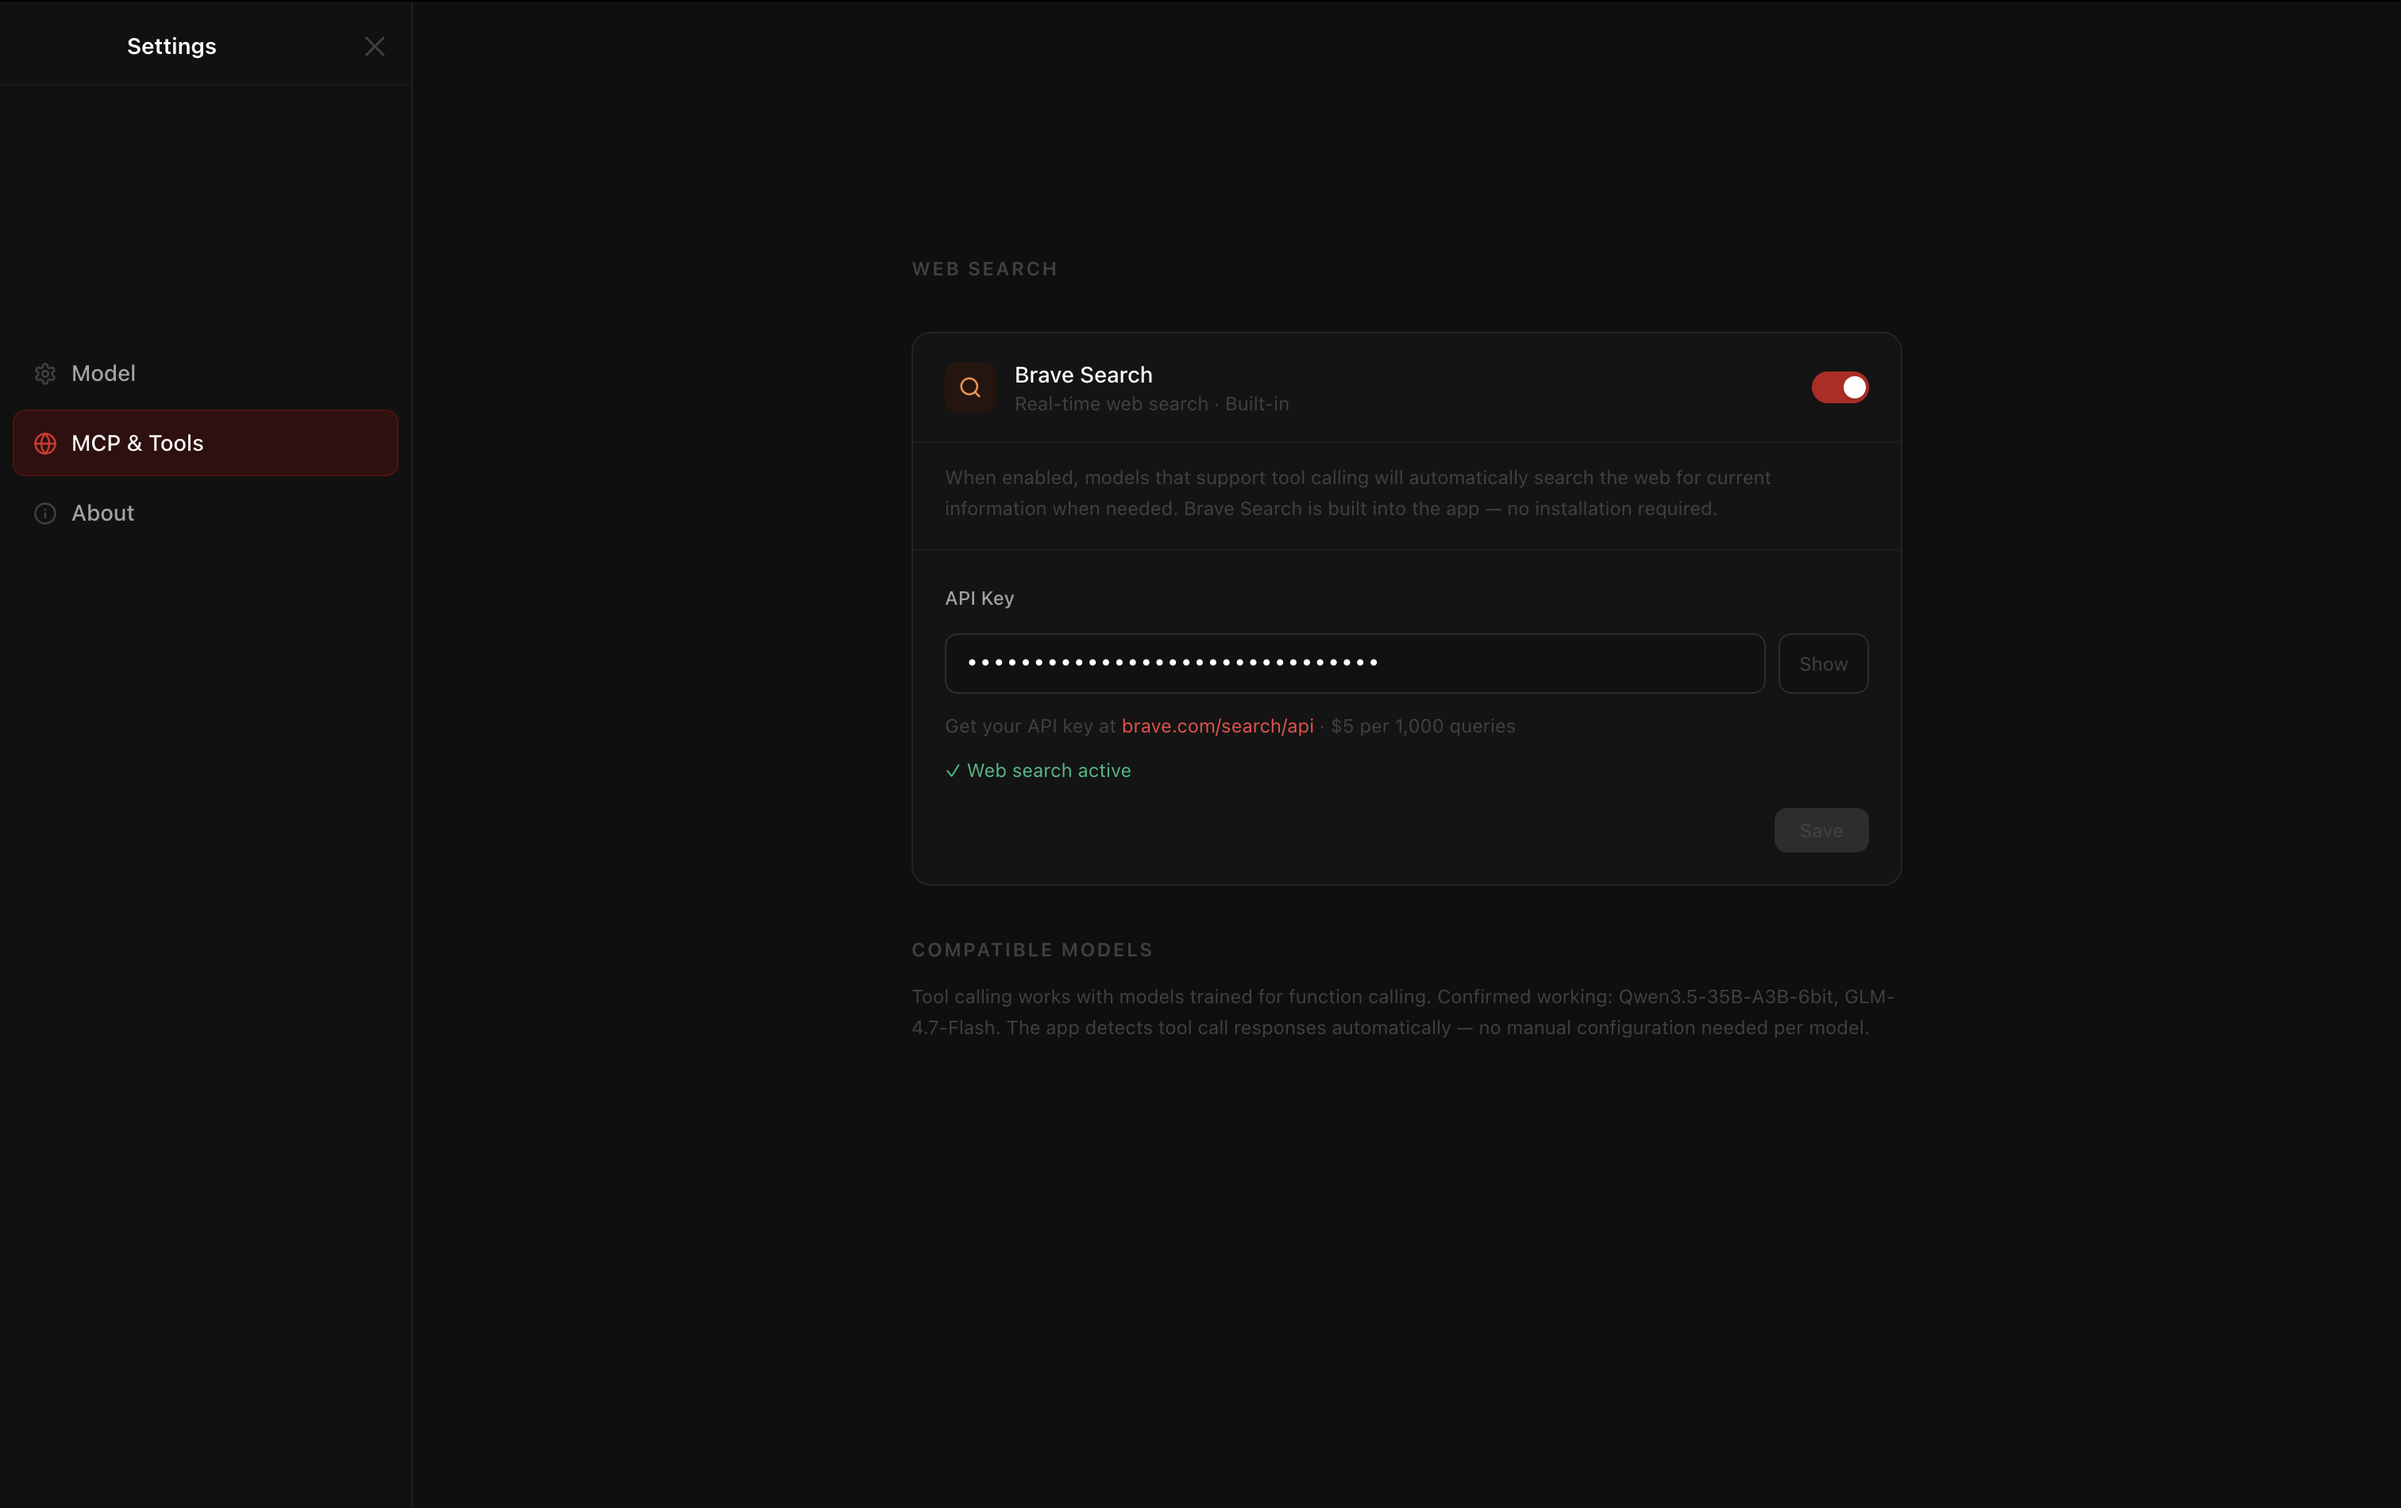
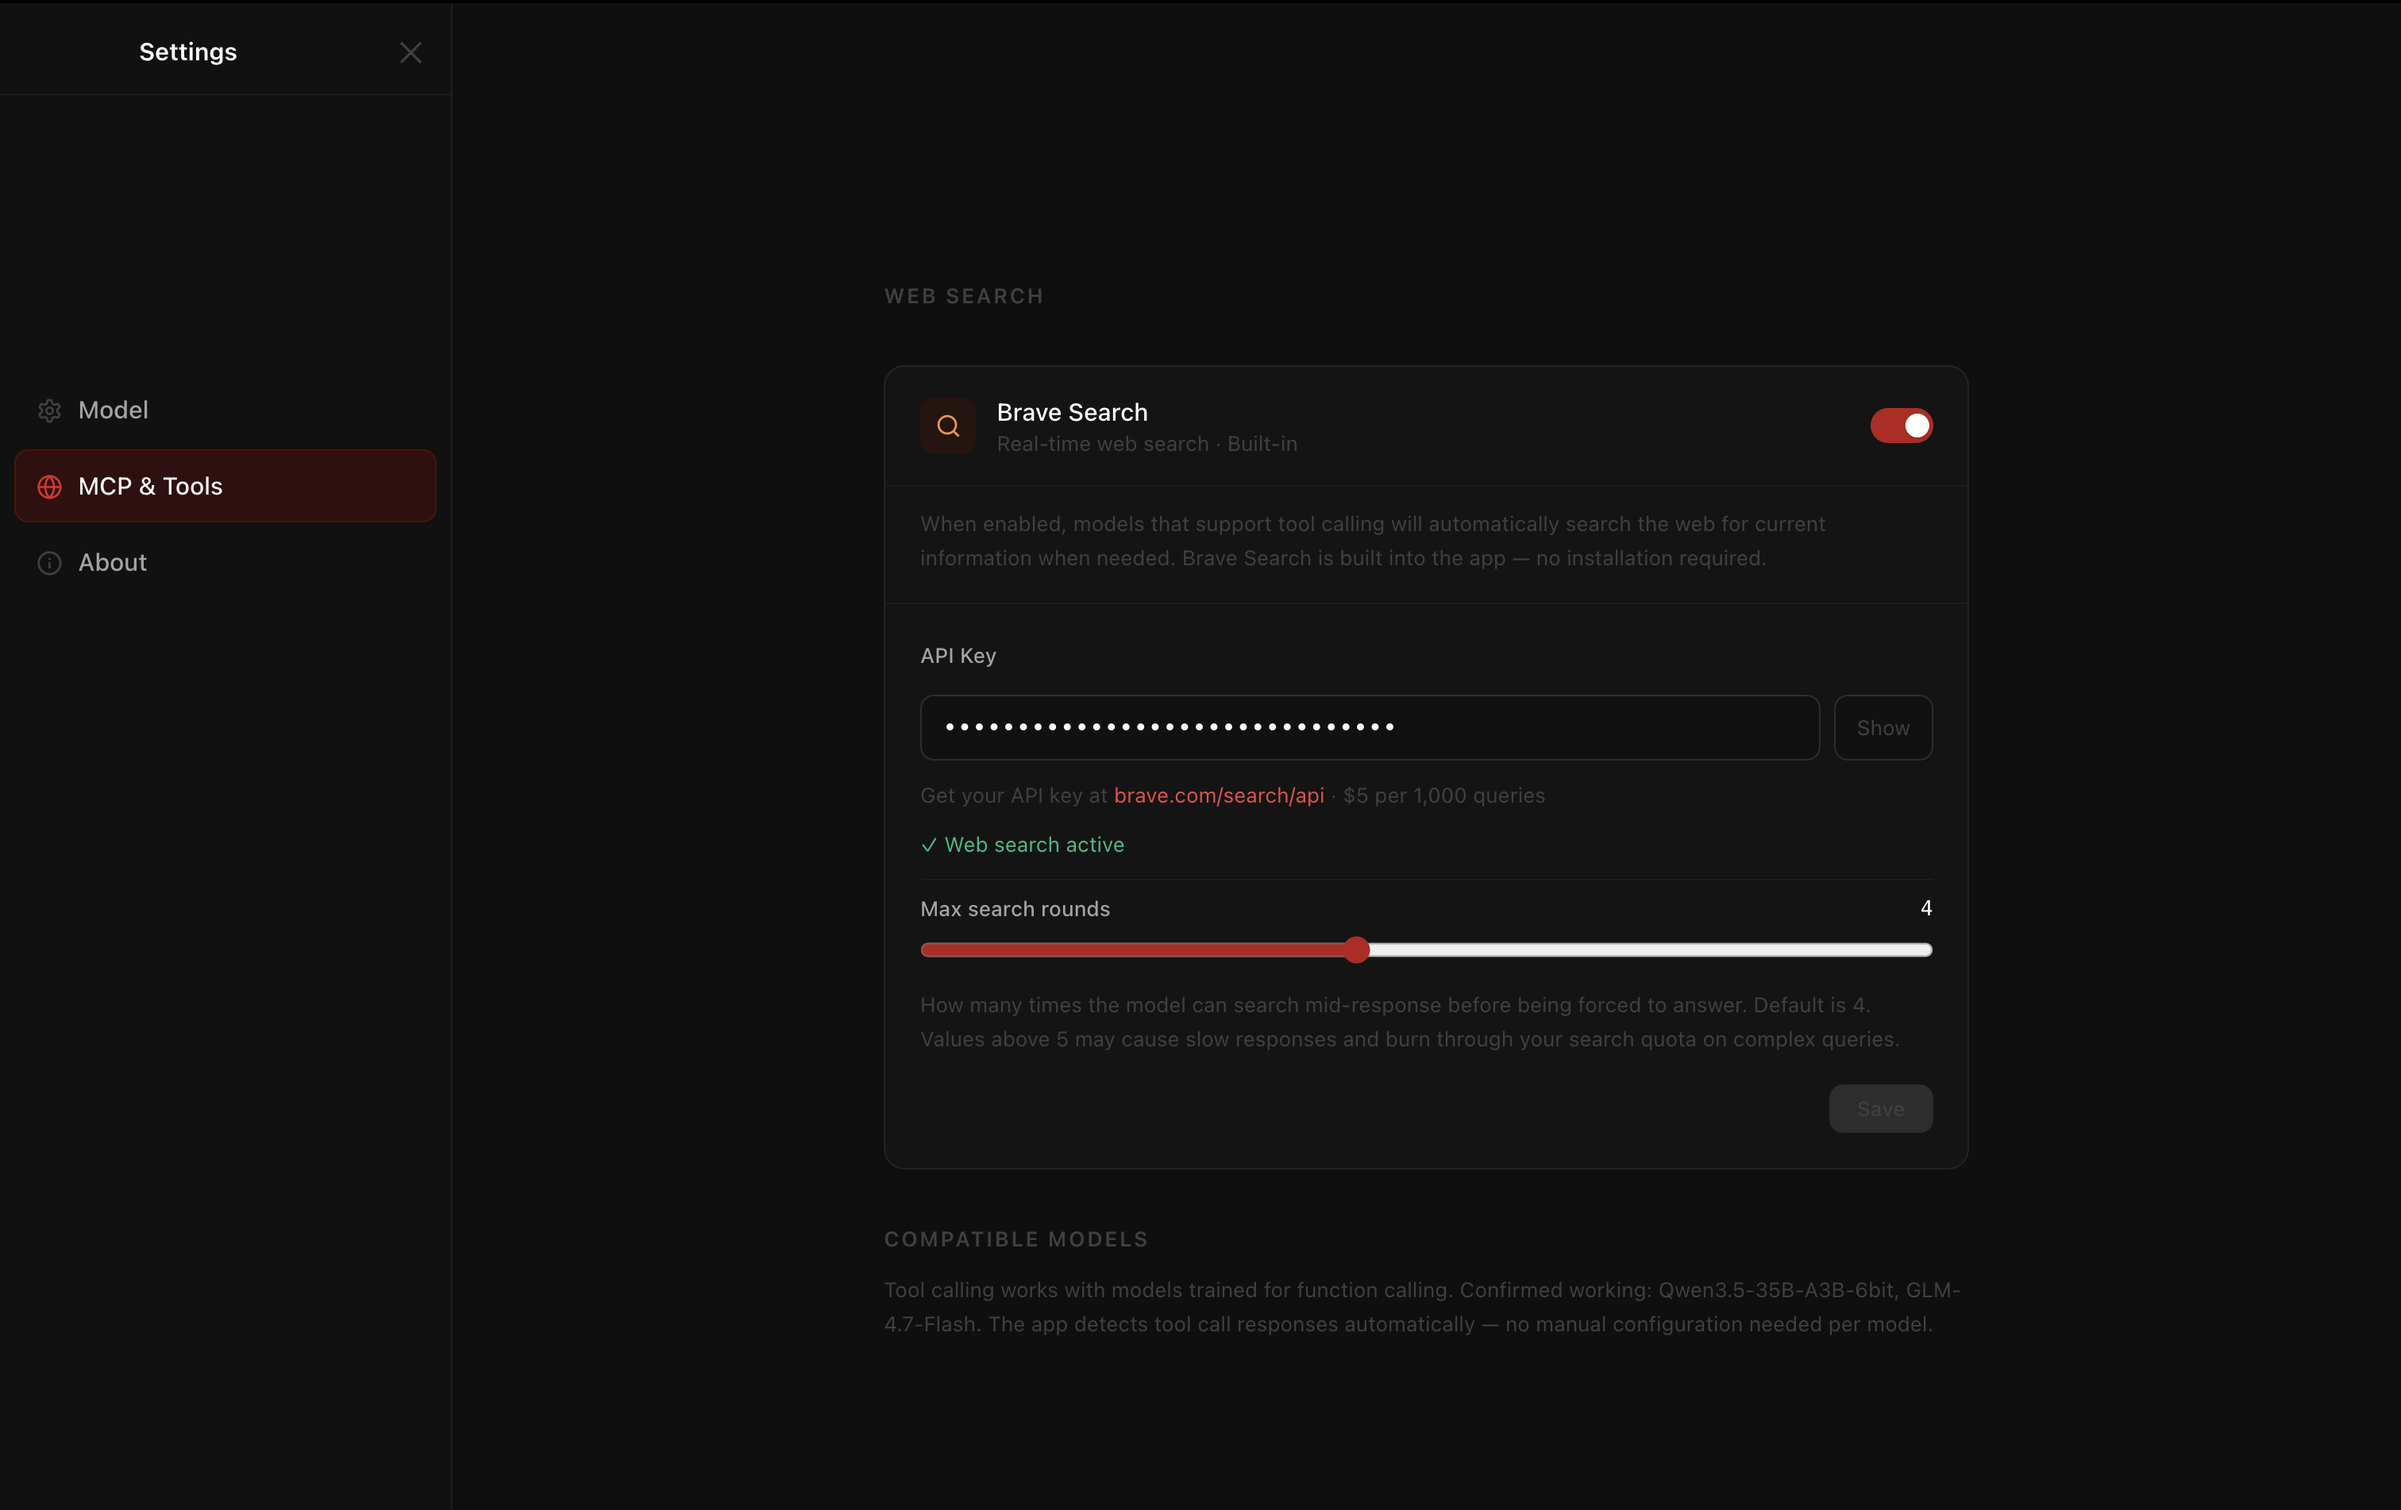
fix: settings page padding and app images updates for docs

diff --git a/src/renderer/src/components/settings/SettingsPage.tsx b/src/renderer/src/components/settings/SettingsPage.tsx
@@ -81,6 +81,8 @@ function AboutPanel() {
 export function SettingsPage({ onClose }: SettingsPageProps) {
   const [tab, setTab] = useState<SettingsTab>('model')
 
+  const paddingTop = tab === 'mcp' ? 60 : 160;
+
   return (
     <div className="flex h-full w-full" style={{ background: '#0f0f0f' }}>
       {/* Left nav */}
@@ -139,7 +141,7 @@ export function SettingsPage({ onClose }: SettingsPageProps) {
 
       {/* Content — same top offset as nav, horizontally centred inner block */}
       <div className="flex-1 overflow-y-auto">
-        <div className="mx-auto px-12 pb-8 w-full" style={{ maxWidth: 720, paddingTop: 160 }}>
+        <div className="mx-auto px-12 pb-8 w-full" style={{ maxWidth: 720, paddingTop }}>
           {tab === 'model' && <ModelSettingsPanel />}
           {tab === 'mcp' && <MCPSettingsPanel />}
           {tab === 'about' && <AboutPanel />}
